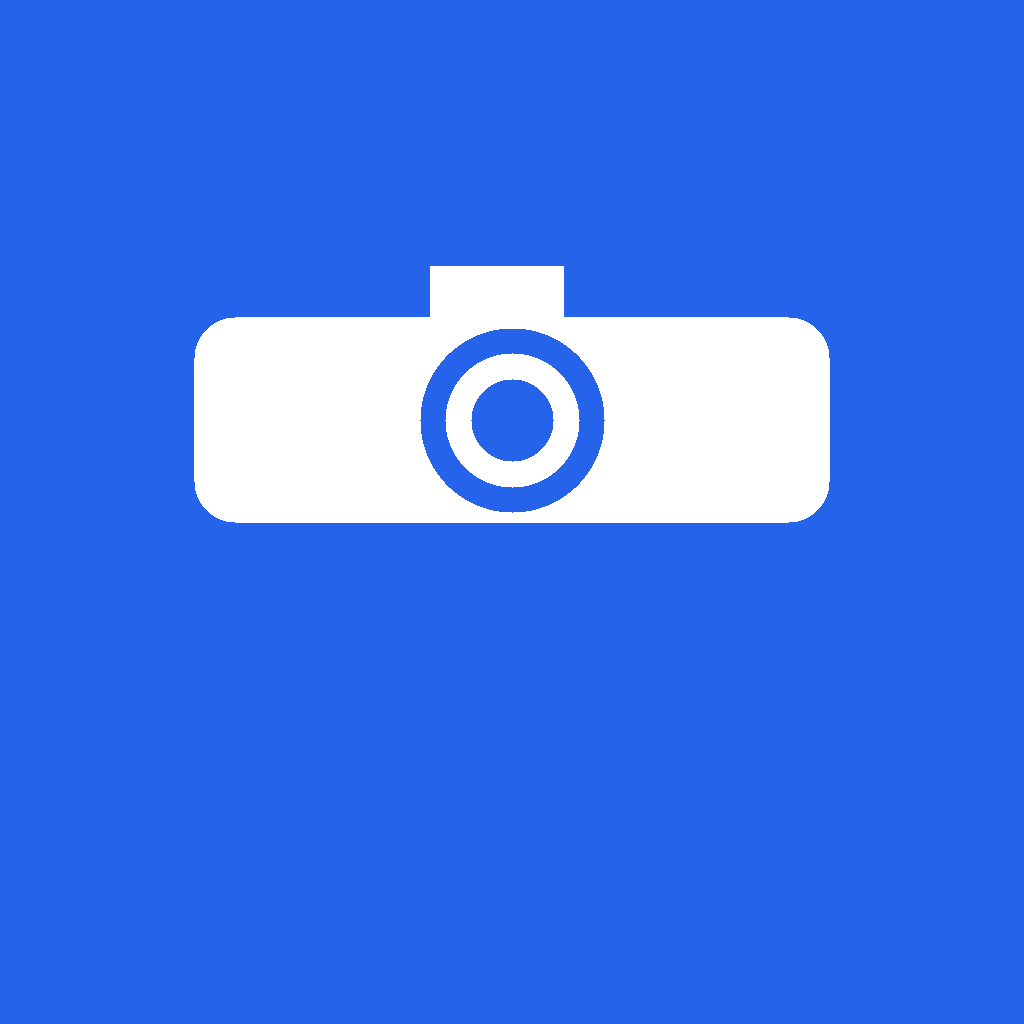
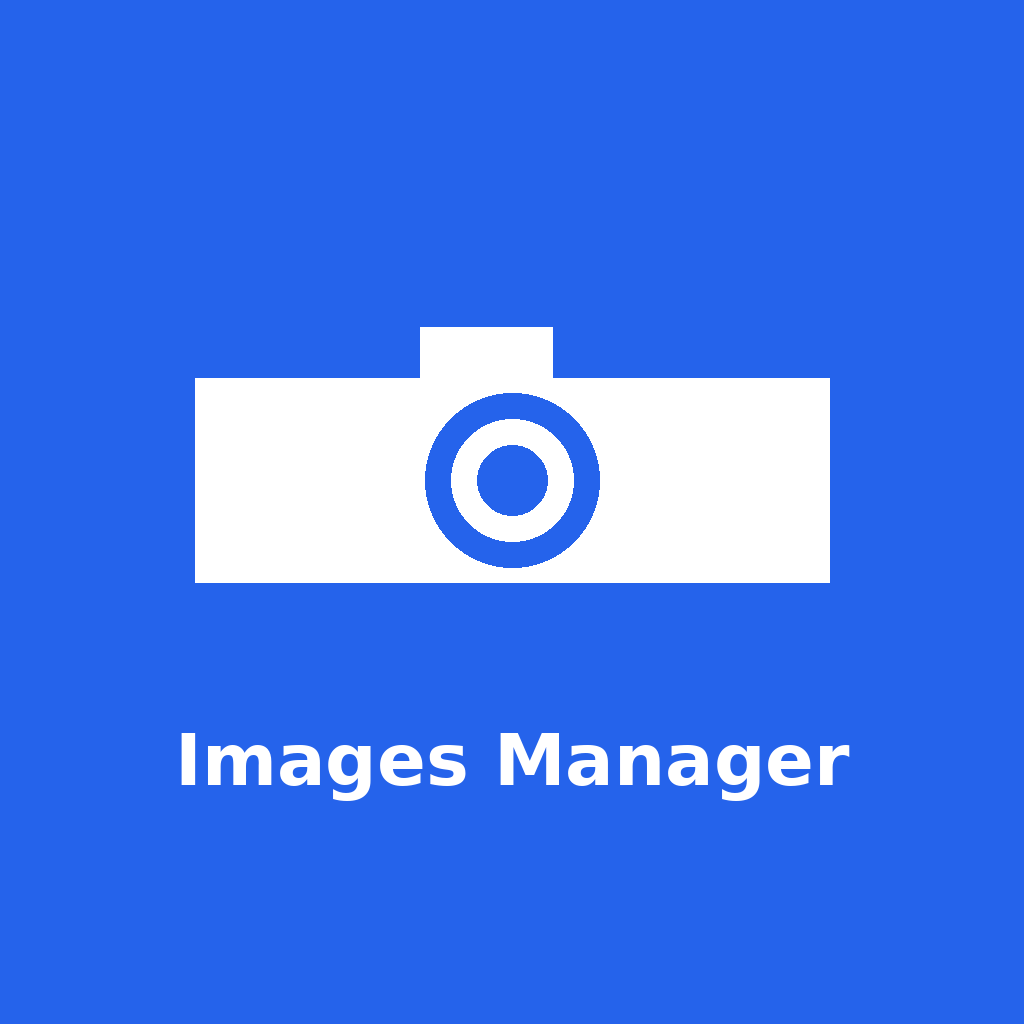
deploy: 49961043da7398d382feb5cbd83b9093a6f63eec

Changed region(s): [[0.1875, 0.25, 0.8125, 0.5938], [0.1562, 0.7188, 0.8438, 0.7812]]

diff --git a/index.html b/index.html
@@ -23,7 +23,8 @@
         flex: 1;
       }
     </style>
-    <link rel="manifest" href="/ImagesManager_Mobile/manifest.json">
+  
+  <link rel="manifest" href="/ImagesManager_Mobile/manifest.json">
   <meta name="theme-color" content="#2563eb">
   <meta name="mobile-web-app-capable" content="yes">
   <meta name="apple-mobile-web-app-capable" content="yes">
@@ -31,7 +32,19 @@
   <meta name="apple-mobile-web-app-title" content="Images Manager">
   <link rel="apple-touch-icon" href="/ImagesManager_Mobile/icon-512.png">
   <link rel="icon" type="image/png" href="/ImagesManager_Mobile/favicon.png">
-</head>
+  <style>
+    #im-splash {
+      position:fixed; inset:0; background:#2563eb;
+      display:flex; flex-direction:column;
+      align-items:center; justify-content:center; z-index:99999;
+      font-family:Arial,sans-serif;
+    }
+    #im-splash svg { margin-bottom:20px; }
+    #im-splash .t1 { color:#fff; font-size:26px; font-weight:700; margin:0; }
+    #im-splash .t2 { color:rgba(255,255,255,.65); font-size:13px; margin:6px 0 0; }
+  </style>
+
+  </head>
 
   <body>
     <!-- Use static rendering with Expo Router to support running without JavaScript. -->
@@ -39,7 +52,31 @@
       You need to enable JavaScript to run this app.
     </noscript>
     <!-- The root element for your Expo app. -->
-    <div id="root"></div>
+    <div id="root">
+  <div id="im-splash">
+    <svg width="90" height="90" viewBox="0 0 90 90">
+      <rect width="90" height="90" rx="14" fill="rgba(255,255,255,.18)"/>
+      <rect x="11" y="27" width="68" height="42" rx="7" fill="white"/>
+      <circle cx="45" cy="48" r="13" fill="#2563eb"/>
+      <circle cx="45" cy="48" r="9" fill="white"/>
+      <circle cx="45" cy="48" r="5" fill="#2563eb"/>
+      <rect x="28" y="17" width="20" height="12" rx="4" fill="white"/>
+    </svg>
+    <p class="t1">Images Manager</p>
+    <p class="t2">Bijoux &amp; WooCommerce</p>
+  </div>
+  <script>
+    document.addEventListener('DOMContentLoaded',function(){
+      var s=document.getElementById('im-splash');
+      if(s){setTimeout(function(){s.style.transition='opacity .4s';s.style.opacity='0';setTimeout(function(){s.remove();},450);},1800);}
+    });
+    if('serviceWorker' in navigator){
+      window.addEventListener('load',function(){
+        navigator.serviceWorker.register('/ImagesManager_Mobile/sw.js');
+      });
+    }
+  </script>
+</div>
   <script src="/ImagesManager_Mobile/_expo/static/js/web/index-8d9f029e6c6c1559fee15f7834c43f66.js" defer></script>
 </body>
 </html>

diff --git a/sw.js b/sw.js
@@ -1,0 +1,4 @@
+const CACHE = 'images-manager-v1';
+self.addEventListener('install', e => self.skipWaiting());
+self.addEventListener('activate', e => self.clients.claim());
+self.addEventListener('fetch', e => e.respondWith(fetch(e.request).catch(() => caches.match(e.request))));
